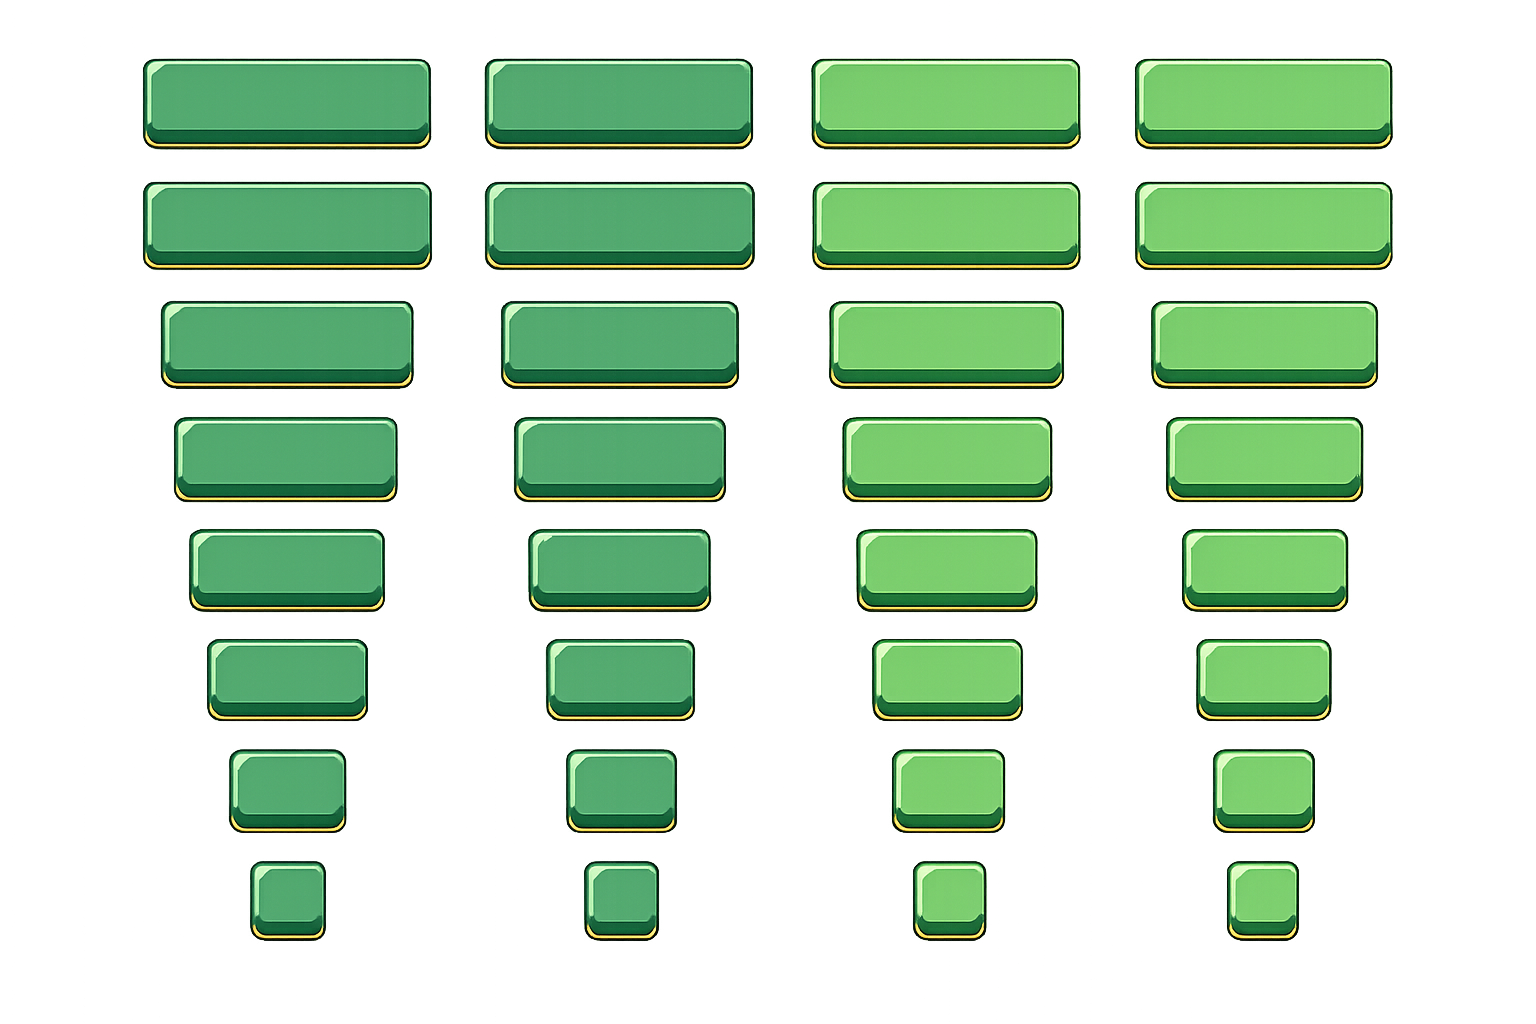
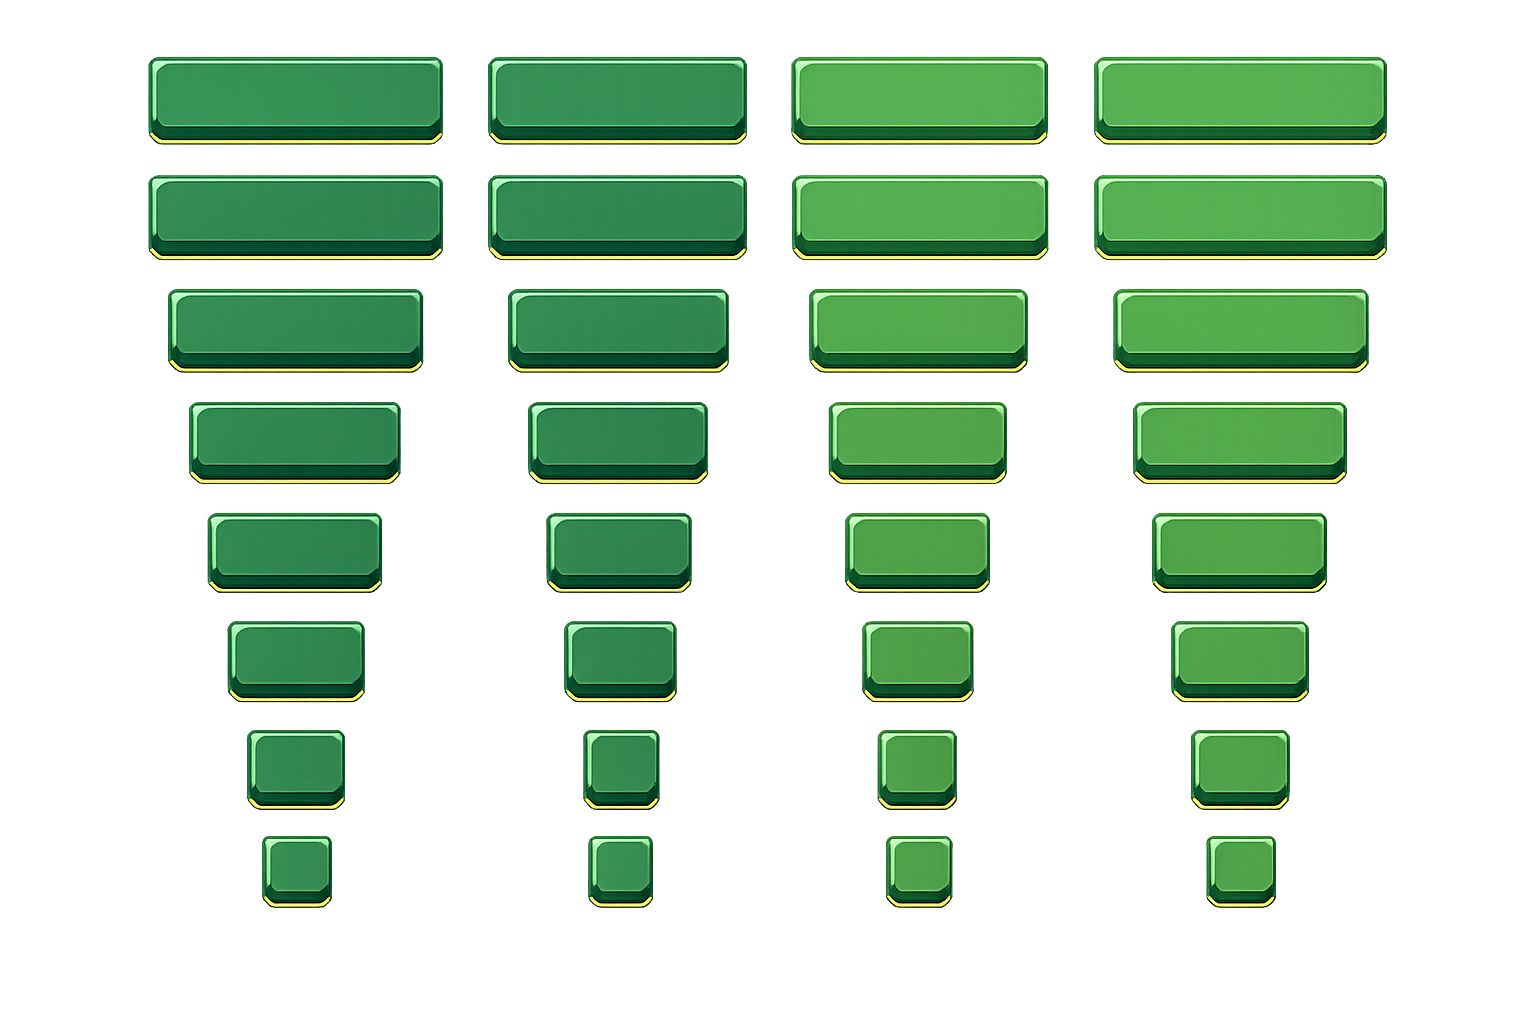
find coord for last 2 rows of Custom Buttons spritesheet

diff --git a/Game1.cs b/Game1.cs
@@ -454,11 +454,52 @@ namespace spritesheet
             // The texture has 10 rows and 4 columns as you specified.
            
 
-            // Compute frame size so we can size buttons to one frame
-            float scale = 2f; // 2.0 = twice as big
+            // Compute nominal frame size (used as default if needed)
+            float scale = 0.6f; 
             int frameWidth  = customButtons.Width  / 4; // columns
-            int frameHeight = customButtons.Height / 8; // rows
-            uiButtons = new Buttons(customButtons, frameWidth, frameHeight, columns: 4);
+            int frameHeight = customButtons.Height / 8; // nominal rows (not used when custom rects provided)
+
+            // Custom per-frame source rects provided by the designer (overrides uniform grid).
+            // Mapping: btn_{row}_{col} -> frameIndex = row * columns + col
+            var customSourceRects = new Dictionary<int, Rectangle>()
+            {
+                { 0*4 + 0, new Rectangle(148,  57, 295, 89) },
+                { 0*4 + 1, new Rectangle(488, 57, 259, 89) },
+                { 0*4 + 2, new Rectangle(790, 57, 258, 89) },
+                { 0*4 + 3, new Rectangle(1095, 57, 293, 89) },
+
+                { 1*4 + 0, new Rectangle(148,  175, 295, 85) },
+                { 1*4 + 1, new Rectangle(488, 175, 259, 85) },
+                { 1*4 + 2, new Rectangle(790, 175, 258, 85) },
+                { 1*4 + 3, new Rectangle(1095, 175, 293, 85) },
+
+                { 2*4 + 0, new Rectangle(168,  288, 255, 85) },
+                { 2*4 + 1, new Rectangle(508, 288, 222, 85) },
+                { 2*4 + 2, new Rectangle(809, 288, 219, 85) },
+                { 2*4 + 3, new Rectangle(1113, 288, 257, 85) },
+
+                { 3*4 + 0, new Rectangle(188,  402, 214, 82) },
+                { 3*4 + 1, new Rectangle(528, 402, 180, 82) },
+                { 3*4 + 2, new Rectangle(830, 402, 177, 82) },
+                { 3*4 + 3, new Rectangle(1133, 402, 214, 82) },
+
+                { 4*4 + 0, new Rectangle(208, 513, 174, 80) },
+                { 4*4 + 1, new Rectangle(546, 513, 146, 80) },
+                { 4*4 + 2, new Rectangle(845, 513, 145, 80) },
+                { 4*4 + 3, new Rectangle(1152, 513, 175, 80) },
+
+                { 5*4 + 0, new Rectangle(227,  620, 138,  82) },
+                { 5*4 + 1, new Rectangle(564, 620, 113,  82) },
+                { 5*4 + 2, new Rectangle(862, 620, 112,  82) },
+                { 5*4 + 3, new Rectangle(1170, 620, 140,  82) },
+
+                { 6*4 + 0, new Rectangle(70,  620, 60,  30) },
+                { 6*4 + 1, new Rectangle(270, 620, 60,  30) },
+                { 6*4 + 2, new Rectangle(470, 620, 60,  30) },
+                { 6*4 + 3, new Rectangle(670, 620, 60,  30) }
+            };
+
+            uiButtons = new Buttons(customButtons, frameWidth, frameHeight, columns: 4, customSourceRects);
             int scaledWidth = (int)(frameWidth * scale);
             int scaledHeight = (int)(frameHeight * scale);
             var playBtnBounds = new Rectangle(

diff --git a/Buttons.cs b/Buttons.cs
@@ -16,14 +16,18 @@ namespace spritesheet
         private readonly int _frameHeight;
         private readonly int _columns;
 
+        // Optional per-frame source rectangles (overrides uniform grid calculation).
+        private readonly Dictionary<int, Rectangle>? _customSourceRects;
+
         private readonly List<Button> _buttons = new();
 
-        public Buttons(Texture2D atlas, int frameWidth, int frameHeight, int columns)
+        public Buttons(Texture2D atlas, int frameWidth, int frameHeight, int columns, Dictionary<int, Rectangle>? customSourceRects = null)
         {
             _atlas = atlas ?? throw new ArgumentNullException(nameof(atlas));
             _frameWidth = frameWidth;
             _frameHeight = frameHeight;
             _columns = columns;
+            _customSourceRects = customSourceRects;
         }
 
         
@@ -64,7 +68,7 @@ namespace spritesheet
         public void Draw(SpriteBatch spriteBatch, SpriteFont font = null)
         {
             foreach (var b in _buttons)
-                b.Draw(spriteBatch, _atlas, _frameWidth, _frameHeight, _columns, font);
+                b.Draw(spriteBatch, _atlas, _frameWidth, _frameHeight, _columns, font, _customSourceRects);
         }
     }
 
@@ -162,7 +166,7 @@ namespace spritesheet
         }
 
         // Draw the button using the atlas. Provide frame size and atlas columns to compute source rect.
-        public void Draw(SpriteBatch spriteBatch, Texture2D atlas, int frameWidth, int frameHeight, int columns, SpriteFont font = null)
+        public void Draw(SpriteBatch spriteBatch, Texture2D atlas, int frameWidth, int frameHeight, int columns, SpriteFont font = null, Dictionary<int, Rectangle>? customSourceRects = null)
         {
             if (atlas == null) throw new ArgumentNullException(nameof(atlas));
 
@@ -194,7 +198,15 @@ namespace spritesheet
                     break;
             }
 
-            var src = GetSourceRect(frameIndex, frameWidth, frameHeight, columns);
+            Rectangle src;
+            if (customSourceRects != null && customSourceRects.TryGetValue(frameIndex, out var r))
+            {
+                src = r;
+            }
+            else
+            {
+                src = GetSourceRect(frameIndex, frameWidth, frameHeight, columns);
+            }
             spriteBatch.Draw(atlas, Bounds, src, Color.White);
 
             if (font != null && !string.IsNullOrEmpty(Text))
